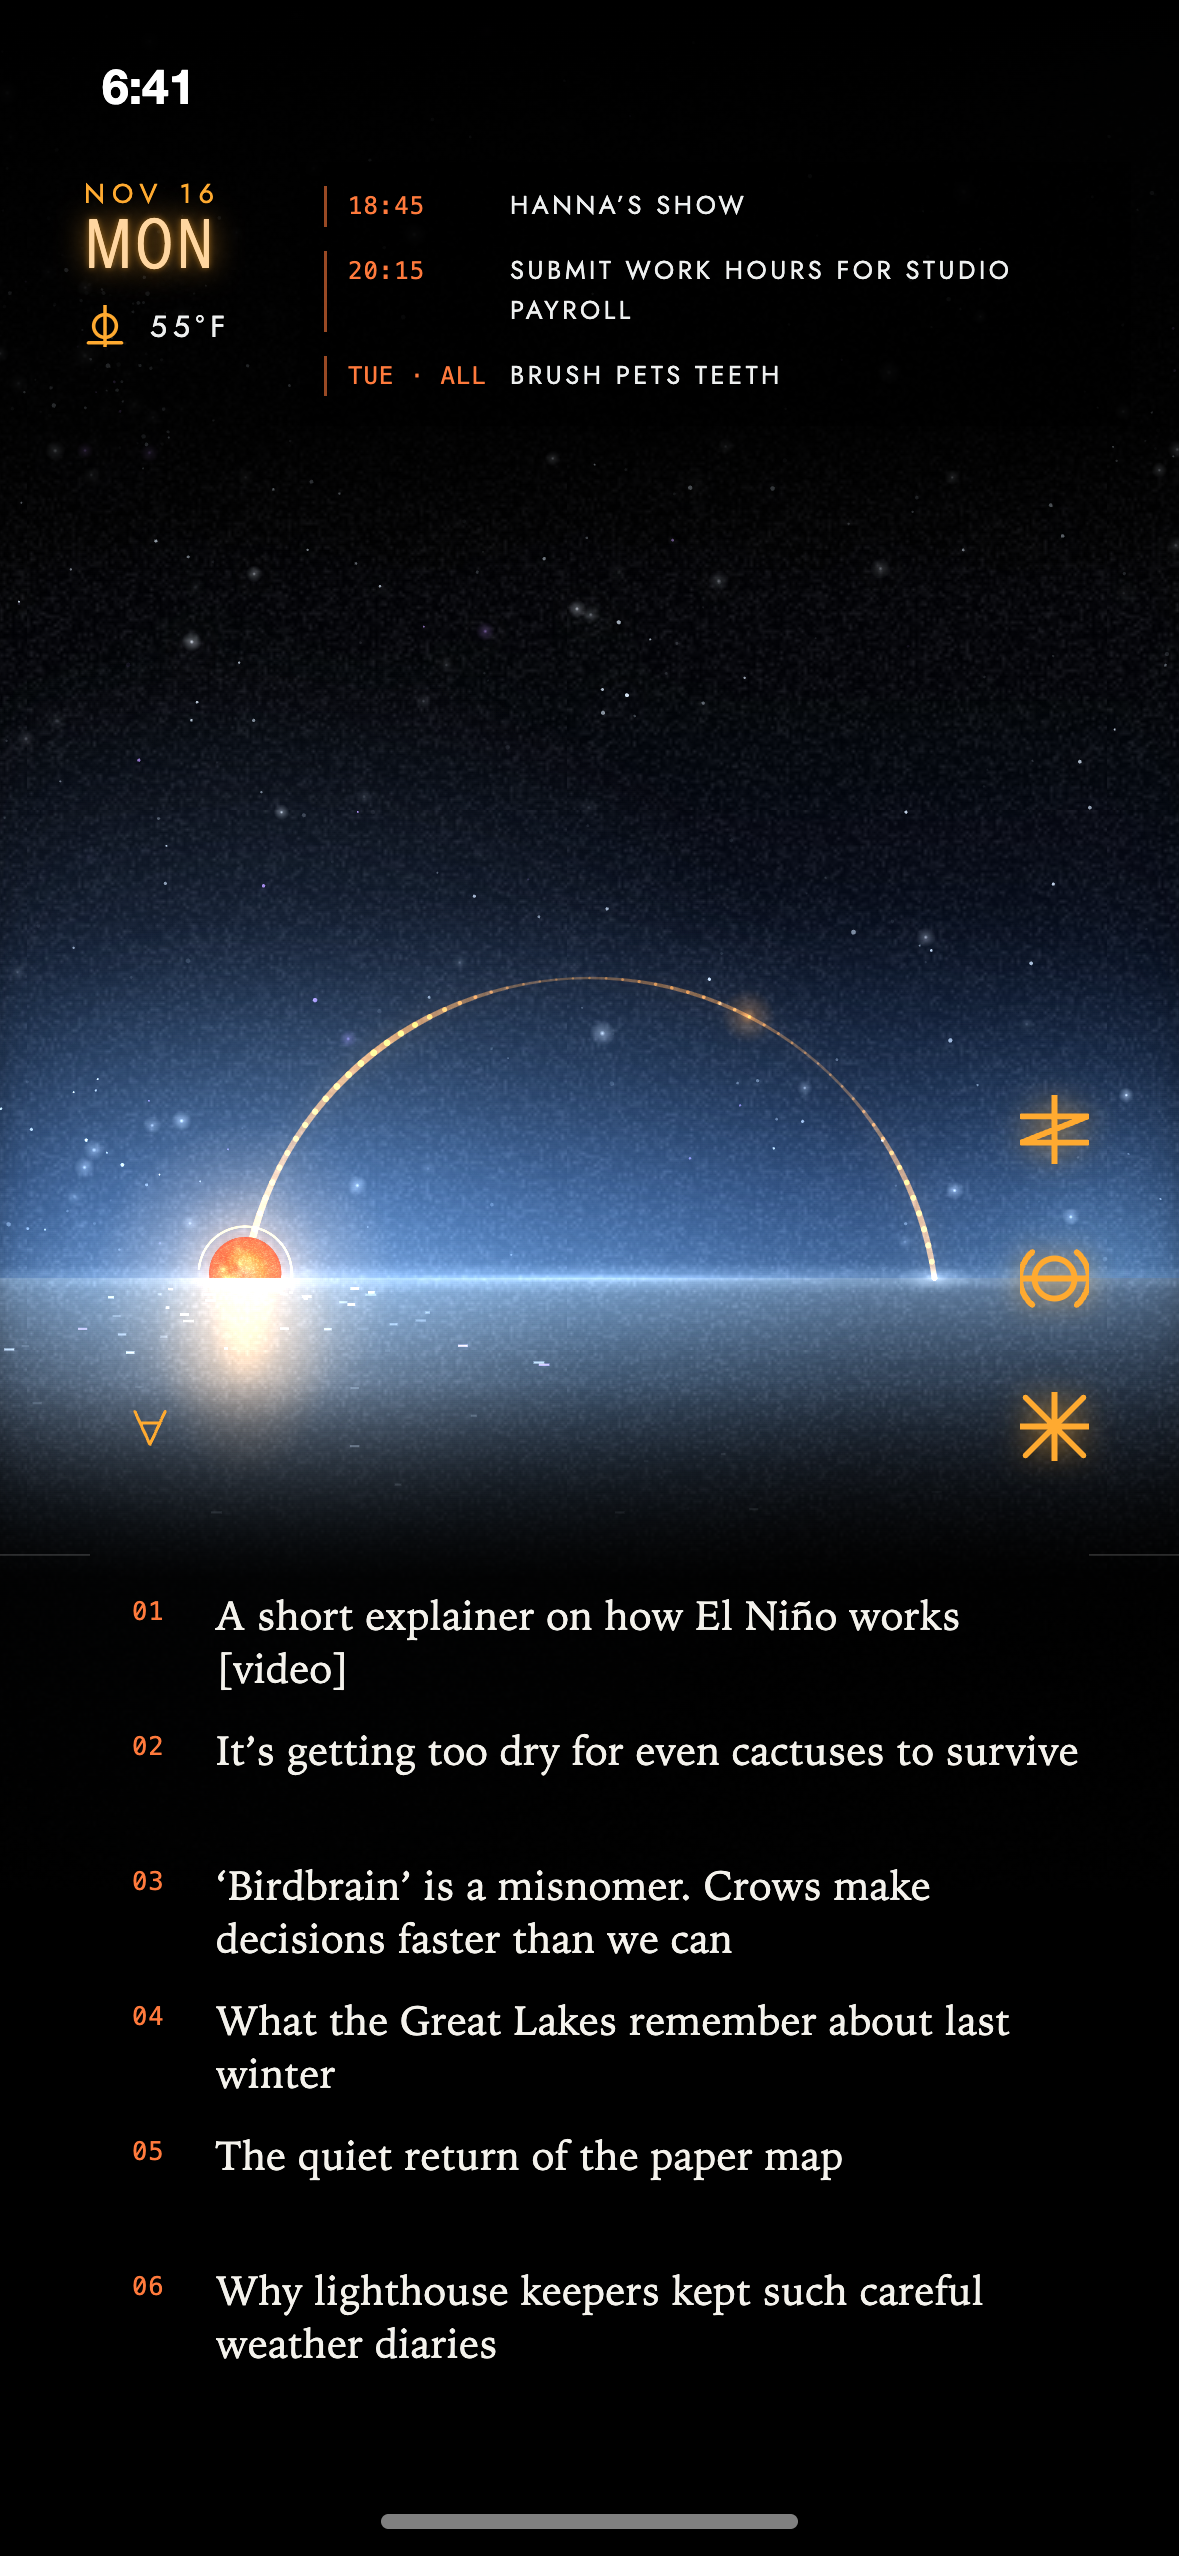
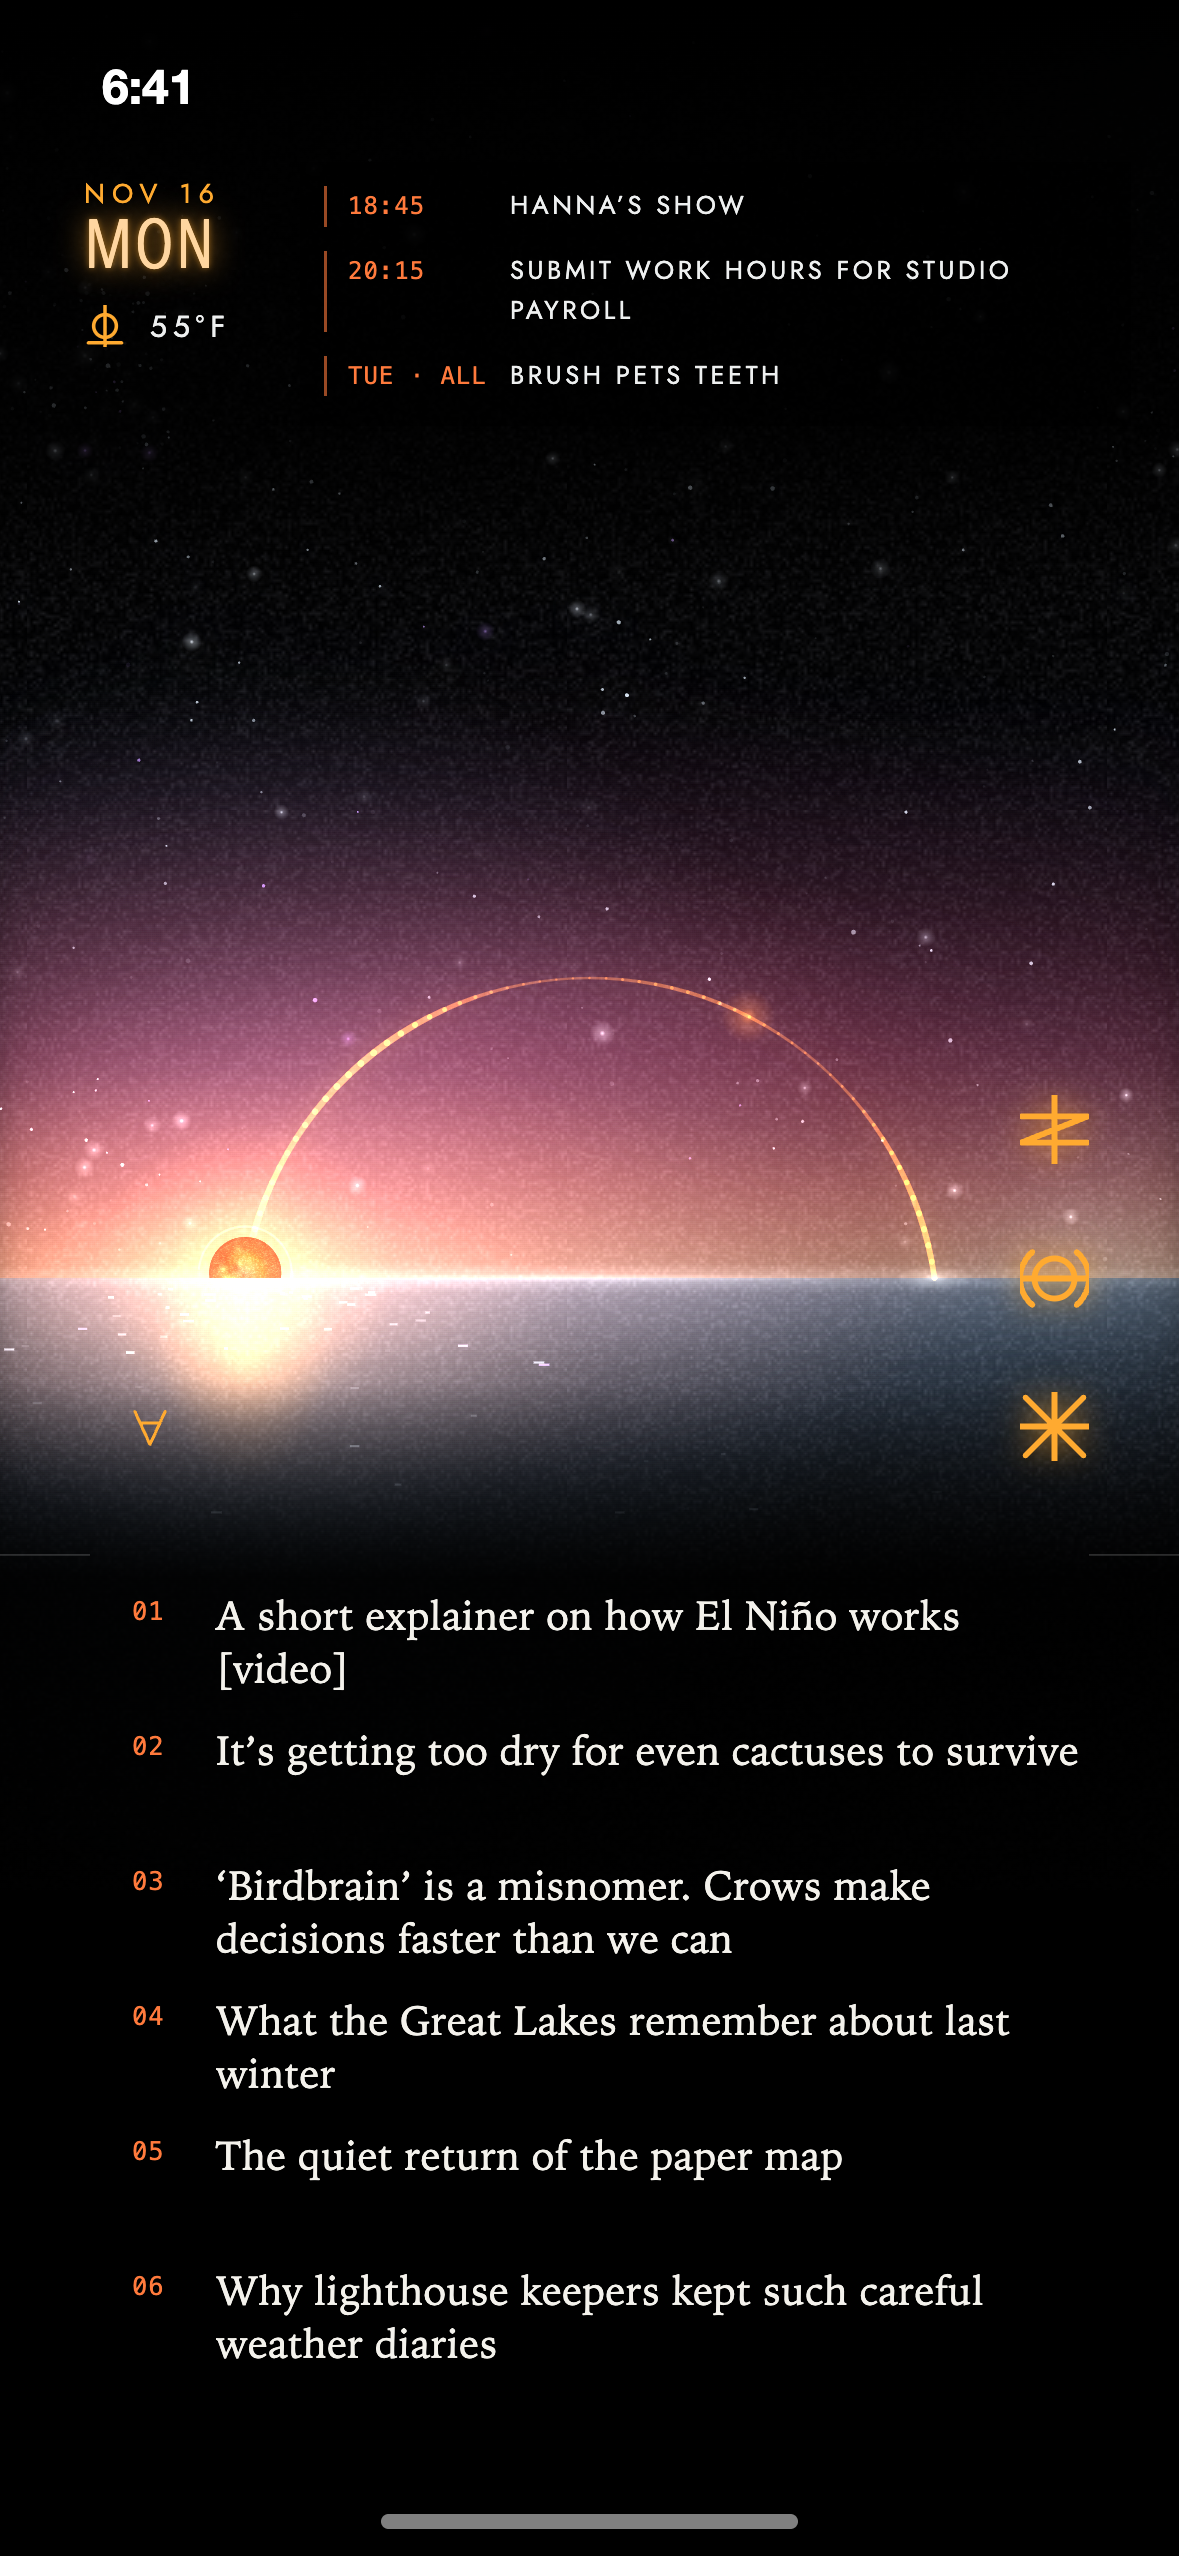
[#54] design-ideas/v7-firmament: orange, red and pink sky at sunrise and sunset

Changed region(s): [[0.0, 0.3091, 1.0, 0.5872]]

diff --git a/design-ideas/v7-firmament/index.html b/design-ideas/v7-firmament/index.html
@@ -219,7 +219,8 @@ function draw(t) {
 
   /* ---- by day the sky is blue: lightest on the horizon, falling quickly to near black above the top of the path, so the words at the top stay on dark ---- */
   if (!look.night) {
-    const k = (.45 + .55 * look.power) * .5, grey = state.rain ? .55 : state.clouds ? .25 : 0;              // duller and greyer under cloud
+    const warm = state.look === "sunrise" || state.look === "sunset";
+    const k = (.45 + .55 * look.power) * (warm ? .16 : .5), grey = state.rain ? .55 : state.clouds ? .25 : 0;              // duller and greyer under cloud
     const blue = (r, g, b, a) => col([r, g, b].map(v => Math.round(v + ((r + g + b) / 3 - v) * grey)).join(","), a * k);
     const sky = ctx.createLinearGradient(0, HZ, 0, HZ - 290);
     sky.addColorStop(0, blue(70, 128, 214, .8)); sky.addColorStop(.1, blue(56, 110, 200, .68)); sky.addColorStop(.26, blue(40, 84, 160, .5));
@@ -228,6 +229,16 @@ function draw(t) {
     const wet = ctx.createLinearGradient(0, HZ, 0, HZ + 96);                                          // and the sea takes some of that blue
     wet.addColorStop(0, blue(64, 112, 176, .42)); wet.addColorStop(1, blue(20, 40, 90, 0));
     ctx.fillStyle = wet; ctx.fillRect(0, HZ, W, 96);
+    if (warm) {                                                                                       // sunrise and sunset: orange on the horizon, red and pink above it, strongest on the sun's side
+      const band = ctx.createLinearGradient(0, HZ, 0, HZ - 190);
+      band.addColorStop(0, col("255,134,40", .3)); band.addColorStop(.16, col("250,92,44", .26)); band.addColorStop(.4, col("232,60,84", .17));
+      band.addColorStop(.7, col("200,84,130", .07)); band.addColorStop(1, col("120,70,150", 0));
+      ctx.fillStyle = band; ctx.fillRect(0, HZ - 190, W, 190);
+      glow(bx, HZ, 250, 70, "255,124,30", .2, .45);
+      glow(bx, HZ - 34, 290, 130, "244,62,56", .15, .5);
+      glow(bx + (bx < x ? 70 : -70), HZ - 86, 300, 120, "236,90,150", .1, .55);
+      glow(bx, HZ + 22, 230, 56, "255,120,76", .1, .45);
+    }
   }
   /* ---- light in the sky: a wide haze round the sun or moon, and a low one along the horizon ---- */
   glow(bx, by, 210, 210, "70,96,120", .46 * (.5 + .5 * P), .5);

diff --git a/design-ideas/v7-firmament/README.md b/design-ideas/v7-firmament/README.md
@@ -10,7 +10,7 @@ Today as an open night-black sky over the sea. Built from `v6-hud2/` with the po
 - Header, upper left: month and day, then the day name in a light condensed face (Avenir Next Condensed, which ships with iOS and macOS; other systems fall back to Jost) scaled to be exactly as wide as the date, then the weather sign and temperature. The condition is not spelled out. The three events start just right of this narrow column and run to the right edge, so titles have about 215 points.
 - Article titles are set in a humanist serif, in sentence case and without letter-spacing (Iowan Old Style, then Charter; both ship with iOS and macOS). Event titles, like everything else, keep the spaced capitals in Jost.
 - The history button at the left below the horizon is `∀`, the maths sign for "all" (an upside-down A), in place of v6's `»`, drawn twice as heavy as the other symbols.
-- By day the sky is blue: lightest along the horizon and falling quickly to near black a little above the top of the sun's path, so the header and events stay on dark. Stars stay visible through it. It is duller and greyer under cloud and rain. At night the sky is black as before.
+- By day the sky is blue: lightest along the horizon and falling quickly to near black a little above the top of the sun's path, so the header and events stay on dark. Stars stay visible through it. It is duller and greyer under cloud and rain. At sunrise and sunset the blue is weaker and the low sky is orange on the horizon with red and pink above, strongest on the sun's side. At night the sky is black as before.
 - `index.html` is the animated mockup. Open it in a browser (`open design-ideas/v7-firmament/index.html`) and pick a state, or step through with the arrow keys. `?state=<id>&bare&still&t=<seconds>` draws one frame.
 - `01-sunrise.png` … `12-moon-set.png` are stills of the same twelve states as `design-ideas/v1-original/`, at iPhone size.
 - `fonts/` holds a copy of the app's Jost font so the page works offline.

diff --git a/tasks/0054-design-ideas-v7-firmament-oranges-reds-a.md b/tasks/0054-design-ideas-v7-firmament-oranges-reds-a.md
@@ -1,0 +1,26 @@
+---
+id: 54
+title: design-ideas/v7-firmament: oranges, reds and pinks in the sky at sunrise and sunset
+status: in-progress
+owner: lead
+depends_on: []
+created: 2026-11-17T15:42:28Z
+updated: 2026-11-17T15:42:28Z
+---
+
+## Goal
+
+
+## Acceptance criteria
+
+
+## Relevant files
+
+
+## What's been tried
+
+
+## Log
+
+- 2026-11-17T15:42:28Z [lead] created (todo)
+- 2026-11-17T15:42:28Z [lead] status: todo → in-progress — claimed by lead
